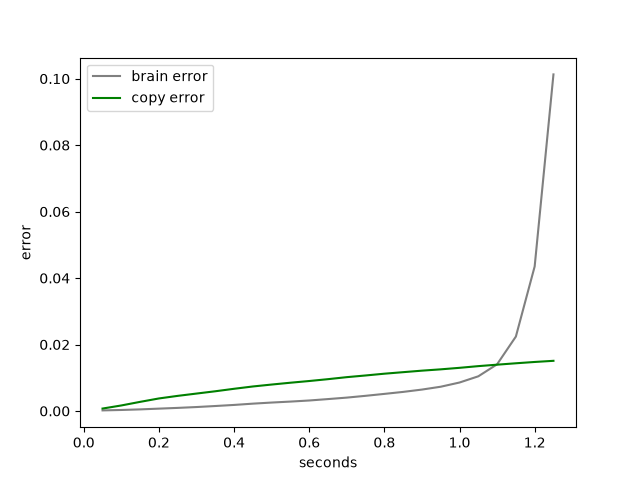
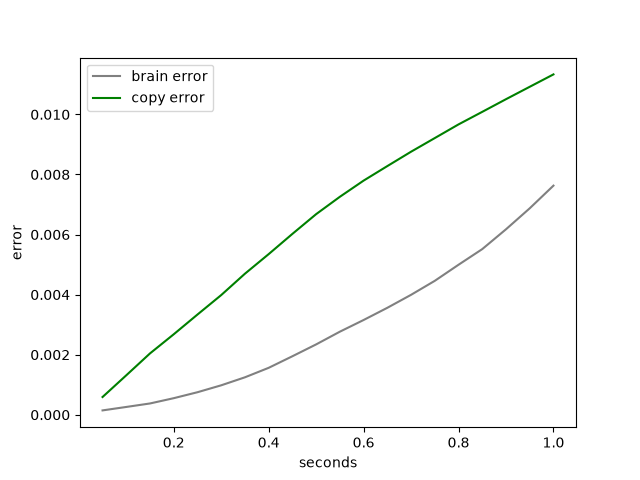
documentation

diff --git a/planing_test.py b/planing_test.py
@@ -4,7 +4,7 @@ import matplotlib.pyplot as plt
 import torch 
 
 guess = 0
-seconds = 2 * 20  # one second is 20 
+seconds = 1 * 20  # one second is 20 
 
 
 d = np.load("data/test_pairs.npz")
@@ -18,7 +18,7 @@ speed = torch.from_numpy(d["spd"]).float()[:, None]
 model = NeuralModel()
 model.load_state_dict(torch.load("model.pt", map_location="cpu"))
 
-start = 4340
+start = 4000
 
 
 def show_graph(r_start, r_end , guess):
@@ -35,7 +35,7 @@ def show_graph(r_start, r_end , guess):
     plt.xlabel("angle (degrees, + = left)")
     plt.ylabel("distance (m)")
     plt.legend()
-    plt.savefig("guess.png")
+    plt.savefig("rollout_example.png")
     plt.show()
 
 

diff --git a/rollout_curve.py b/rollout_curve.py
@@ -35,7 +35,7 @@ for i in range(len(same) - STEPS):
 random.seed(0)
 starts = random.sample(safe, 500)              
 starts = torch.tensor(starts)                   
-print(starts[:10], len(starts))
+
 
 
 

diff --git a/simple_model/graphs.py b/simple_model/graphs.py
@@ -15,6 +15,7 @@ ax.set_xlabel("Epochs")
 ax.set_ylabel("Loss")
 ax.set_title("Training results")
 ax.grid()
+plt.savefig("loss.png")
 plt.show()
 
   

diff --git a/results_MLP.md b/results_MLP.md
@@ -1,0 +1,31 @@
+# Stage A: MLP world model on lidar
+
+## Setup
+- Data: 1,722 trips (13.2 h, practice track), split by trip 1377 / 172 / 173 (train / val / test, seed 42)
+- Input: lidar 271 beams (every 4th, inf -> 10 m, /10), throttle /0.09, steering, speed /3
+- Output: next lidar scan (0.05 s later)
+- Model: MLP 274 -> 512 -> 512 -> 271, 542,479 parameters
+- Training: Adam lr 0.001, batch 256, 40 epochs (~6 s/epoch, RTX 3050), best val at epoch 38
+- Baseline "copy": the next scan = the current scan
+
+## One step (0.05 s), MSE
+| split | brain     | copy      | brain / copy |
+|-------|-----------|-----------|--------------|
+| val   | 0.0001658 | 0.0006846 | 0.24         |
+| test  | 0.0001702 | 0.0007031 | 0.24         |
+
+## Imagination (rollout), 500 random safe test starts, brain / copy
+| 0.05 s | 0.25 s | 0.5 s | 0.75 s | 1.0 s |
+|--------|--------|-------|--------|-------|
+| 0.25   | 0.22   | 0.35  | 0.48   | 0.67  |
+Lines cross at ~1.1 s. After that a few imaginations explode (values < 0 or > 1, never seen in training).
+
+## Conclusions
+- The brain learned motion: in imagination it turns the scene like the real car does.
+- 4x better than copy for one step, still 1.5x better after 1 s -> imagination is trustworthy for ~1 s.
+- Weak points: blurred wall edges (MSE averages uncertain guesses), small jitter, phantom walls,
+  compounding error over many steps.
+- Data limits: throttle is constant inside a trip, one track, one driver.
+
+## Pictures
+loss.png, guess.png, rollout_example.png, rollout.png

diff --git a/notes.md b/notes.md
@@ -1,17 +1,22 @@
 start the test file  = venv\Scripts\python test_recordes.py
 
+
+1)  **data_collection** - folder with scripts that run communication with Autodrive simulator and drive it with find_gap script 
+2) All data that was collected by scripts are stored at data folder in .npz format 
+3) data_prep work with data and make them to right training format
+4) simple_model folder with basik MLP model that trained on my data , its simple  and just for start 
+
+
+
+MLP world model (40 epochs, model.pt best val at epoch 38)
+- one step (0.05 s): test/copy = 0.24
+- rollout: brain/copy = 0.25 @0.05 s, 0.35 @0.5 s, 0.67 @1 s
+- crossing ~1.1 s, after that a few imaginations explode (values < 0 or > 1)
+
+
+
+
 what data contain packet = ['V1 Throttle', 'V1 Steering', 'V1 Speed', 'V1 Encoder Ticks', 'V1 Encoder Angles', 'V1 Position', 'V1 Orientation Quaternion', 'V1 Orientation Euler Angles', 'V1 Angular Velocity', 'V1 Linear Acceleration', 'V1 LIDAR Scan Rate', 'V1 LIDAR Range Array', 'V1 Front Camera Image', 'V1 Lap Count', 'V1 Lap Time', 'V1 Last Lap Time', 'V1 Best Lap Time', 'V1 Collisions']
 
 
-V1 Lap Time - on this make the counter 
 
-
-task for today make alg that gonna fill the gap!!
-
-
-max_speed = 0.093 
-
-
-added noise to file 
-make normal timer 
-write csv
